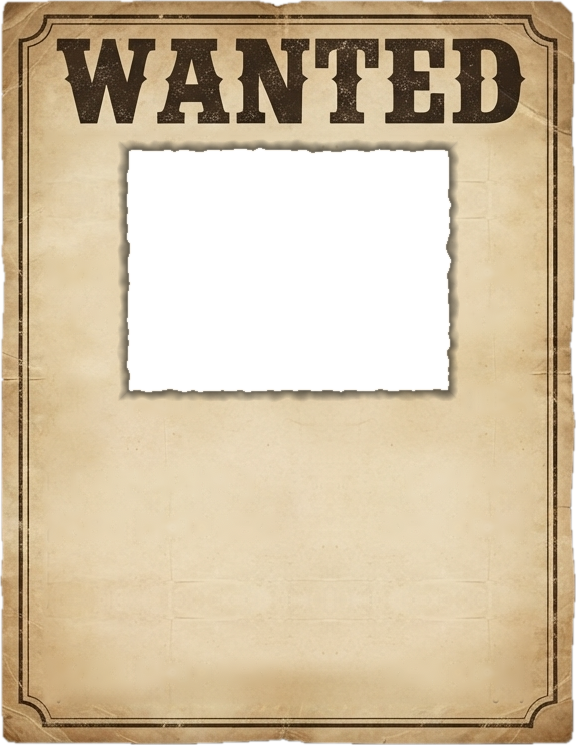
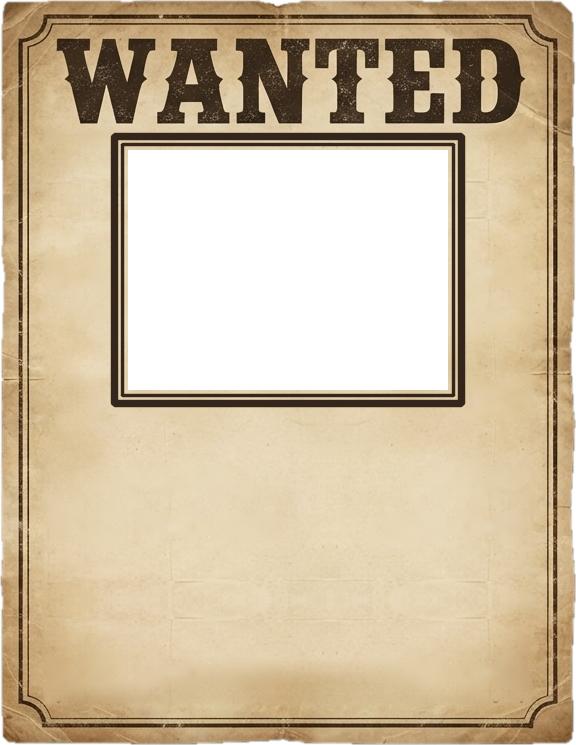
사진 칸 반듯하게 · 액자 줄, DEAD OR ALIVE 되살림, 한 기기 둘이 안내, 게시판 틀은 두고 위아래로 늘림, 방장 표시는 WANTED 위 집 모양 H, 고르기 화면 들어갈 땐 기본 나타나기, 좁은 창 대기방 오류 수정

Changed region(s): [[0.1875, 0.1544, 0.8125, 0.5557]]

diff --git a/public/west.js b/public/west.js
@@ -281,15 +281,15 @@
 
     shakeIt(dur, amp) { this.shake = { at: now(), dur, amp }; }
 
-    startWipe(to, onMid) {
+    startWipe(to, onMid, kind = 'weed') {
       // 지금 그림을 떠 두고, 새 장면 위를 회전초가 오른쪽→왼쪽으로 닦는다
       const snap = document.createElement('canvas');
       snap.width = this.cv.width; snap.height = this.cv.height;
       snap.getContext('2d').drawImage(this.cv, 0, 0);
-      this.wipe = { snap, at: now(), dur: 950 };
+      this.wipe = { snap, at: now(), dur: kind === 'fade' ? 700 : 950, kind };
       this.view = to;
       if (onMid) onMid();
-      this.S && this.S.whoosh(0.9);
+      if (kind === 'weed') this.S && this.S.whoosh(0.9);
     }
 
     spawnWeed(big) {
@@ -793,7 +793,7 @@
       const from = this.view;
       this.clearTimers();
       this.sel = { hover: null, split: 0.5, pick: null, pickAt: 0, from: 0.5, at: now() };
-      if (from === 'title') this.startWipe('select', null, 'flash'); else this.view = 'select';
+      if (from === 'title') this.startWipe('select', null, 'fade'); else this.view = 'select';   // 회전초는 서부 쪽에서만
       this.match = null;
     }
 
@@ -1086,7 +1086,7 @@
       const aspect = poster.width / poster.height;
       const fit = c => { const rw = Math.ceil(4 / c); return Math.min((r.height - (rw + 1) * 12) / rw, (r.width - (c + 1) * 28) / c / aspect); };
       const cols = fit(4) >= fit(2) ? 4 : 2, rows = cols === 4 ? 1 : 2;
-      const ph = fit(cols);
+      const ph = Math.max(40, fit(cols));          // 창이 아주 좁아도 음수가 되지 않게
       const pw = ph * aspect;
       const gx = (r.width - cols * pw) / (cols + 1);
       const gy = (r.height - rows * ph) / (rows + 1);
@@ -1221,7 +1221,7 @@
       const stamps = [];
       if (q.me) stamps.push('나');
       if (q.bot) stamps.push('BOT');
-      if (q.host) stamps.push('방장');
+
       stamps.forEach((stamp, si) => {
         const se = easeOut((t - q.at - 380 - si * 120) / 220);
         if (se <= 0) return;
@@ -1239,7 +1239,37 @@
         ctx.fillText(stamp, 0, 3 * k);
         ctx.restore();
       });
-      this.drawNail(pw / 2, 14 * k, 7 * k);
+      if (q.host) this.drawHostMark(pw / 2, 4 * k, k, alpha);
+      else this.drawNail(pw / 2, 14 * k, 7 * k);
+      ctx.restore();
+    }
+
+    /** 방장 표시 — WANTED 위, 집 모양 안에 H */
+    drawHostMark(cx, top, k, alpha) {
+      const { ctx } = this;
+      const w = 64 * k, h = 58 * k;
+      ctx.save();
+      ctx.globalAlpha = alpha;
+      ctx.translate(cx, top);
+      ctx.fillStyle = '#8e2a1c';
+      ctx.strokeStyle = '#f3e1b8'; ctx.lineWidth = Math.max(1, 3 * k);
+      ctx.beginPath();
+      ctx.moveTo(0, -h * 0.12);
+      ctx.lineTo(w / 2, h * 0.36);
+      ctx.lineTo(w * 0.38, h * 0.36);
+      ctx.lineTo(w * 0.38, h * 0.88);
+      ctx.lineTo(-w * 0.38, h * 0.88);
+      ctx.lineTo(-w * 0.38, h * 0.36);
+      ctx.lineTo(-w / 2, h * 0.36);
+      ctx.closePath();
+      ctx.shadowColor = 'rgba(0,0,0,.5)'; ctx.shadowBlur = 6 * k; ctx.shadowOffsetY = 2 * k;
+      ctx.fill();
+      ctx.shadowBlur = 0; ctx.shadowOffsetY = 0;
+      ctx.stroke();
+      ctx.fillStyle = '#f3e1b8';
+      ctx.font = `${30 * k}px Rye, ${FONT_W}`;
+      ctx.textAlign = 'center'; ctx.textBaseline = 'middle';
+      ctx.fillText('H', 0, h * 0.58);
       ctx.restore();
     }
 
@@ -2085,6 +2115,14 @@
       const { ctx, W, H, dpr } = this;
       const p = (t - w.at) / w.dur;
       if (p >= 1) { this.wipe = null; this.onWipe && this.onWipe(null); return; }
+      if (w.kind === 'fade') {
+        // 기본 나타나기 — 옛 화면이 서서히 사라진다
+        const k = 1 - easeIO(p);
+        ctx.save(); ctx.setTransform(1, 0, 0, 1, 0, 0); ctx.globalAlpha = k; ctx.drawImage(w.snap, 0, 0); ctx.restore();
+        ctx.setTransform(dpr, 0, 0, dpr, 0, 0);
+        this.onWipe && this.onWipe({ fade: easeIO(p) });
+        return;
+      }
       const R = H * 0.62;
       const x = lerp(W + R * 1.2, -R * 1.4, easeIO(p));
       // 화면 위 글·창(DOM)도 회전초에 맞춰 — 지나간 오른쪽만 새 것, 왼쪽은 옛 것

diff --git a/public/style.css b/public/style.css
@@ -84,23 +84,30 @@ body[data-view="title"] #title, body[data-view="home"] #home, body[data-view="ov
 /* 사진 칸이 뚫린 수배서 — 칸 아래에 이름 · 방 만들기 · 코드 */
 .sheet.holed {
   background-image: url(/img/poster_hole.png);
-  padding-top: calc(var(--w) * .72); justify-content: flex-start; gap: 10px;
+  padding-top: calc(var(--w) * .745); justify-content: flex-start; gap: 8px;
   animation: riseSheet .85s .75s cubic-bezier(.25,.85,.3,1) both;   /* 사람이 먼저 자리를 잡고 나서 아래에서 올라온다 */
   will-change: transform;
 }
 /* 그림자 필터는 움직이는 동안 매 프레임 다시 그려 끊긴다 — 발밑에 흐린 타원 하나로 대신한다 */
 .sheet::before, .townboard::before { content: ""; position: absolute; left: 6%; right: 6%; bottom: -3%; height: 8%; background: radial-gradient(ellipse at center, #000a, #0000 70%); z-index: -1; }
+.doa { margin: 0 0 4px; font: calc(var(--w) * .062)/1.1 var(--wood); color: var(--ink); letter-spacing: .06em; }
+.link small { display: block; font-size: 11.5px; font-weight: 600; opacity: .75; margin-top: 2px; }
+#pairHint { position: fixed; left: 0; right: 0; bottom: 12vh; z-index: 4; display: none; justify-content: space-between; padding: 0 5vw; pointer-events: none; }
+#pairHint span { padding: 8px 14px; background: #140b05c0; color: #f3e1b8; font: 900 15px var(--kr); }
+body.pair[data-view="game"] #pairHint { display: flex; }
 .hole { position: absolute; left: 22.2%; top: 20.1%; width: 55.6%; height: 32.2%; pointer-events: none; }
 @keyframes riseSheet { from { transform: translateY(105vh) rotate(2deg); } 82% { transform: translateY(-8px) rotate(-.3deg); } to { transform: none; } }
 
 .townboard {
-  position: relative; flex: 1 1 0; min-width: 0; aspect-ratio: 795 / 428; max-height: calc(100vh - 100px);
-  background: url(/img/board.png) center / 100% 100% no-repeat;
+  /* 틀(가장자리)은 그대로 두고 판자만 늘어나게 — 위아래로 빈 곳을 채운다 */
+  position: relative; flex: 1 1 0; min-width: 0; align-self: stretch; margin: 2vh 0;
+  border-style: solid; border-width: clamp(34px, 5.5vw, 62px) clamp(52px, 9vw, 110px) clamp(34px, 5.5vw, 58px) clamp(44px, 7vw, 86px);
+  border-image: url(/img/board.png) 60 125 55 90 fill / clamp(34px, 5.5vw, 62px) clamp(52px, 9vw, 110px) clamp(34px, 5.5vw, 58px) clamp(44px, 7vw, 86px) stretch;
   animation: boardIn .9s 1.2s cubic-bezier(.3,.75,.25,1) both;
   will-change: transform;
 }
 @keyframes boardIn { from { transform: translateX(-80vw) rotate(1.5deg); } 80% { transform: translateX(-6px) rotate(-.2deg); } to { transform: none; } }
-.tb-in { position: absolute; left: 12%; top: 15.5%; width: 72%; height: 69%; display: flex; flex-direction: column; gap: 10px; }
+.tb-in { position: absolute; inset: 6px; display: flex; flex-direction: column; gap: 12px; }
 .tb-head { align-self: flex-start; margin: 0; padding: 6px 14px 7px; background: #140b05d9; font: 900 clamp(18px, 1.9vw, 26px)/1.1 var(--kr); color: #f7e6c4; letter-spacing: .02em; }
 .tb-head small { font: 700 13px var(--kr); color: #e8cf9f; margin-left: 10px; }
 #roomList { list-style: none; margin: 0; padding: 6px 4px; flex: 1; min-height: 0; overflow-y: auto; display: grid; grid-template-columns: repeat(auto-fill, minmax(190px, 1fr)); gap: 14px; align-content: start; }
@@ -244,7 +251,7 @@ body[data-view="lobby"] #lobby { display: grid; }
 
 @media (max-width: 760px) {
   #home { flex-direction: column-reverse; align-items: center; padding: 60px 16px 24px; overflow-y: auto; justify-content: flex-start; }
-  .townboard { flex: none; width: 94vw; }
+  .townboard { flex: none; width: 94vw; min-height: 320px; align-self: center; }
   .sheet { --w: min(360px, 90vw); }
   .result { border-width: 24px; }
   .brush { font-size: 84px; }

diff --git a/public/app.js b/public/app.js
@@ -35,14 +35,19 @@
       if (leavingEl) leavingEl.classList.remove('leaving');
       leavingEl = VIEW_EL[prev] ? document.getElementById(VIEW_EL[prev]) : null;
       if (leavingEl) leavingEl.classList.add('leaving');
-      wipeClip({ oldRight: innerWidth, newLeft: innerWidth });
+      wipeClip(w.wipe.kind === 'fade' ? { fade: 0 } : { oldRight: innerWidth, newLeft: innerWidth });
     }
   };
   function wipeClip(c) {
     const cur = VIEW_EL[document.body.dataset.view] ? document.getElementById(VIEW_EL[document.body.dataset.view]) : null;
     if (!c) {
-      if (cur) cur.style.clipPath = '';
-      if (leavingEl) { leavingEl.style.clipPath = ''; leavingEl.classList.remove('leaving'); leavingEl = null; }
+      if (cur) { cur.style.clipPath = ''; cur.style.opacity = ''; }
+      if (leavingEl) { leavingEl.style.clipPath = ''; leavingEl.style.opacity = ''; leavingEl.classList.remove('leaving'); leavingEl = null; }
+      return;
+    }
+    if (c.fade != null) {
+      if (cur) cur.style.opacity = c.fade;
+      if (leavingEl) leavingEl.style.opacity = 1 - c.fade;
       return;
     }
     if (cur) cur.style.clipPath = `inset(0 0 0 ${Math.max(0, c.newLeft)}px)`;
@@ -72,6 +77,7 @@
     const cast = players.map((p, i) => ({ id: p.id, name: p.name, char: i % CHARS.length, me: kind !== 'pair' && mine.includes(p.id) }));
     G = { kind, cfg, players: cast, mine: new Set(mine), foreId, duel, r: 0, phase: 'intro', locked: new Set(), sigAt: 0, best: {} };
     west.startMatch({ players: cast, foreId, target: cfg.target });
+    document.body.classList.toggle('pair', kind === 'pair');
     S.wind(true);
     view('game');
   }

diff --git a/public/index.html b/public/index.html
@@ -44,13 +44,14 @@
   </div>
   <div class="sheet holed">
     <div class="hole" id="faceHole"></div>
+    <p class="doa">DEAD OR ALIVE</p>
     <label class="field"><span>NAME</span><input id="nameIn" maxlength="10" placeholder="이름을 적으세요" autocomplete="off"></label>
     <button class="btn primary" id="createBtn">방 만들기</button>
     <div class="joinrow">
       <label class="field"><span>No.</span><input id="codeIn" maxlength="4" placeholder="방 코드" autocomplete="off" autocapitalize="characters"></label>
       <button class="btn" id="joinBtn">들어가기</button>
     </div>
-    <button class="link" id="pairBtn">☞ 한 기기로 둘이 하기</button>
+    <button class="link" id="pairBtn">☞ 한 기기로 둘이 하기 <small>한 화면을 반으로 — 왼쪽 사람은 왼쪽을, 오른쪽 사람은 오른쪽을 클릭</small></button>
     <p class="err" id="homeErr"></p>
   </div>
 </section>
@@ -108,6 +109,7 @@
   </div>
 </section>
 
+<div id="pairHint"><span>◀ 왼쪽 사람 · 화면 왼쪽을 클릭</span><span>화면 오른쪽을 클릭 · 오른쪽 사람 ▶</span></div>
 <div id="toast"></div>
 
 <script src="/duel.js"></script>

diff --git a/art/cut_wanted.py b/art/cut_wanted.py
@@ -86,22 +86,15 @@ blank[:, :, :3] = np.clip(out, 0, 255).astype(np.uint8)
 cv2.imwrite(os.path.join(OUT, 'poster_blank.png'), blank)
 print('poster_blank.png', pw, 'x', ph)
 
-# ── 구멍 뚫린 수배서: 사진 칸을 도려내 뒤에 선 사람 얼굴이 비치게 (방 만들기 화면) ──
-# 구멍 자리(원본 좌표)는 화면(app.js · west.js)이 얼굴을 맞출 때 같이 쓴다: x 128 · y 150 · 320 × 240
+# ── 구멍 뚫린 수배서: 사진 칸을 반듯하게 도려내고 먹색 액자 줄을 두른다 (방 만들기 화면) ──
+# 구멍 자리(원본 좌표)는 화면(style.css .hole)이 얼굴을 맞출 때 같이 쓴다: x 128 · y 150 · 320 × 240
 HX, HY, HW, HH = 128, 150, 320, 240
 holed = cv2.imread(os.path.join(OUT, 'poster_blank.png'), cv2.IMREAD_UNCHANGED)
-hh_, ww_ = holed.shape[:2]
-yy, xx = np.mgrid[0:hh_, 0:ww_].astype(np.float32)
-rng = np.random.default_rng(7)
-jag = cv2.GaussianBlur(rng.normal(0, 1, (hh_, ww_)).astype(np.float32), (0, 0), 3) * 9
-dx = np.minimum(xx - HX, HX + HW - xx)
-dy = np.minimum(yy - HY, HY + HH - yy)
-inside = np.minimum(dx, dy) + jag                     # 가장자리가 살짝 해지게
-cut = (inside > 0).astype(np.float32)
-cut = cv2.GaussianBlur(cut, (0, 0), 0.8)
-holed[:, :, 3] = (holed[:, :, 3].astype(np.float32) * (1 - cut)).astype(np.uint8)
-# 도려낸 가장자리는 종이가 그을린 듯 어둡게
-rim = np.clip(1 - np.abs(inside) / 10, 0, 1) * (inside < 0)
-holed[:, :, :3] = (holed[:, :, :3].astype(np.float32) * (1 - 0.6 * rim[..., None])).astype(np.uint8)
+# 액자: 바깥 굵은 줄 + 안쪽 가는 줄 (종이 위에 인쇄된 틀)
+ink = (26, 38, 52)                                      # BGR — 바랜 먹색
+cv2.rectangle(holed, (HX - 14, HY - 14), (HX + HW + 13, HY + HH + 13), (*ink, 255), 5, cv2.LINE_AA)
+cv2.rectangle(holed, (HX - 6, HY - 6), (HX + HW + 5, HY + HH + 5), (*ink, 255), 2, cv2.LINE_AA)
+# 구멍은 반듯한 직사각형
+holed[HY:HY + HH, HX:HX + HW, 3] = 0
 cv2.imwrite(os.path.join(OUT, 'poster_hole.png'), holed)
 print('poster_hole.png')
